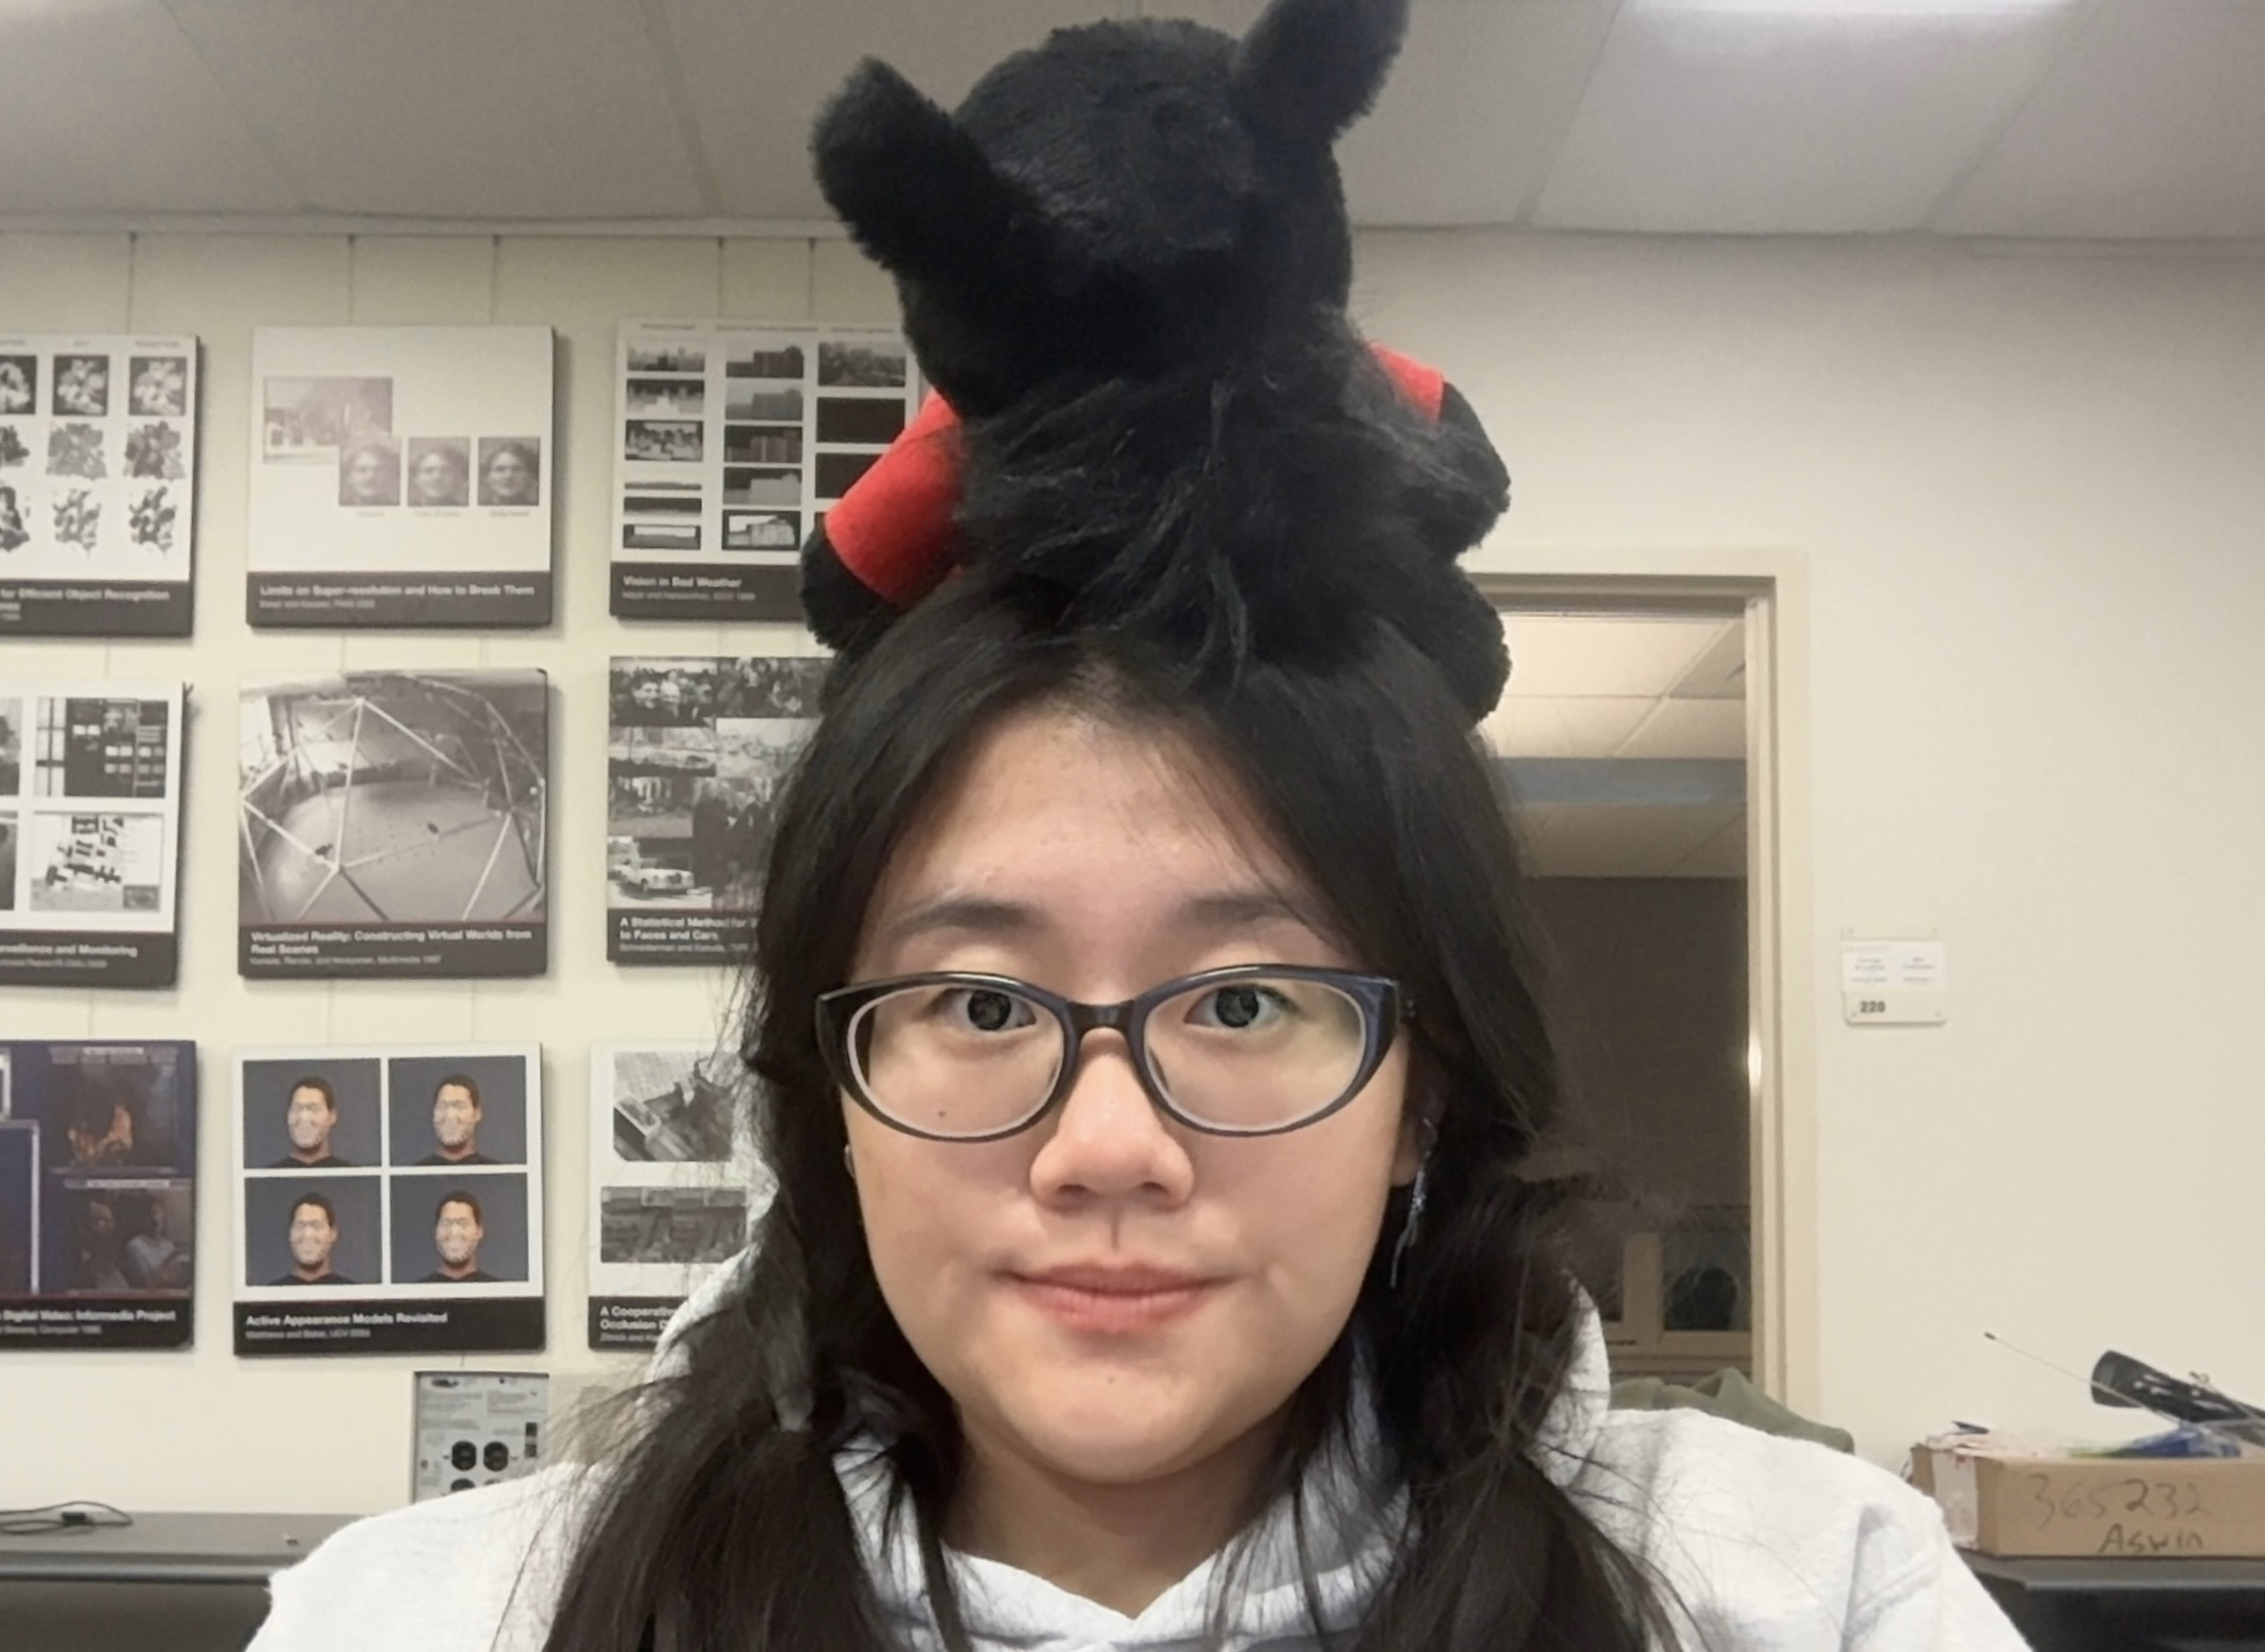
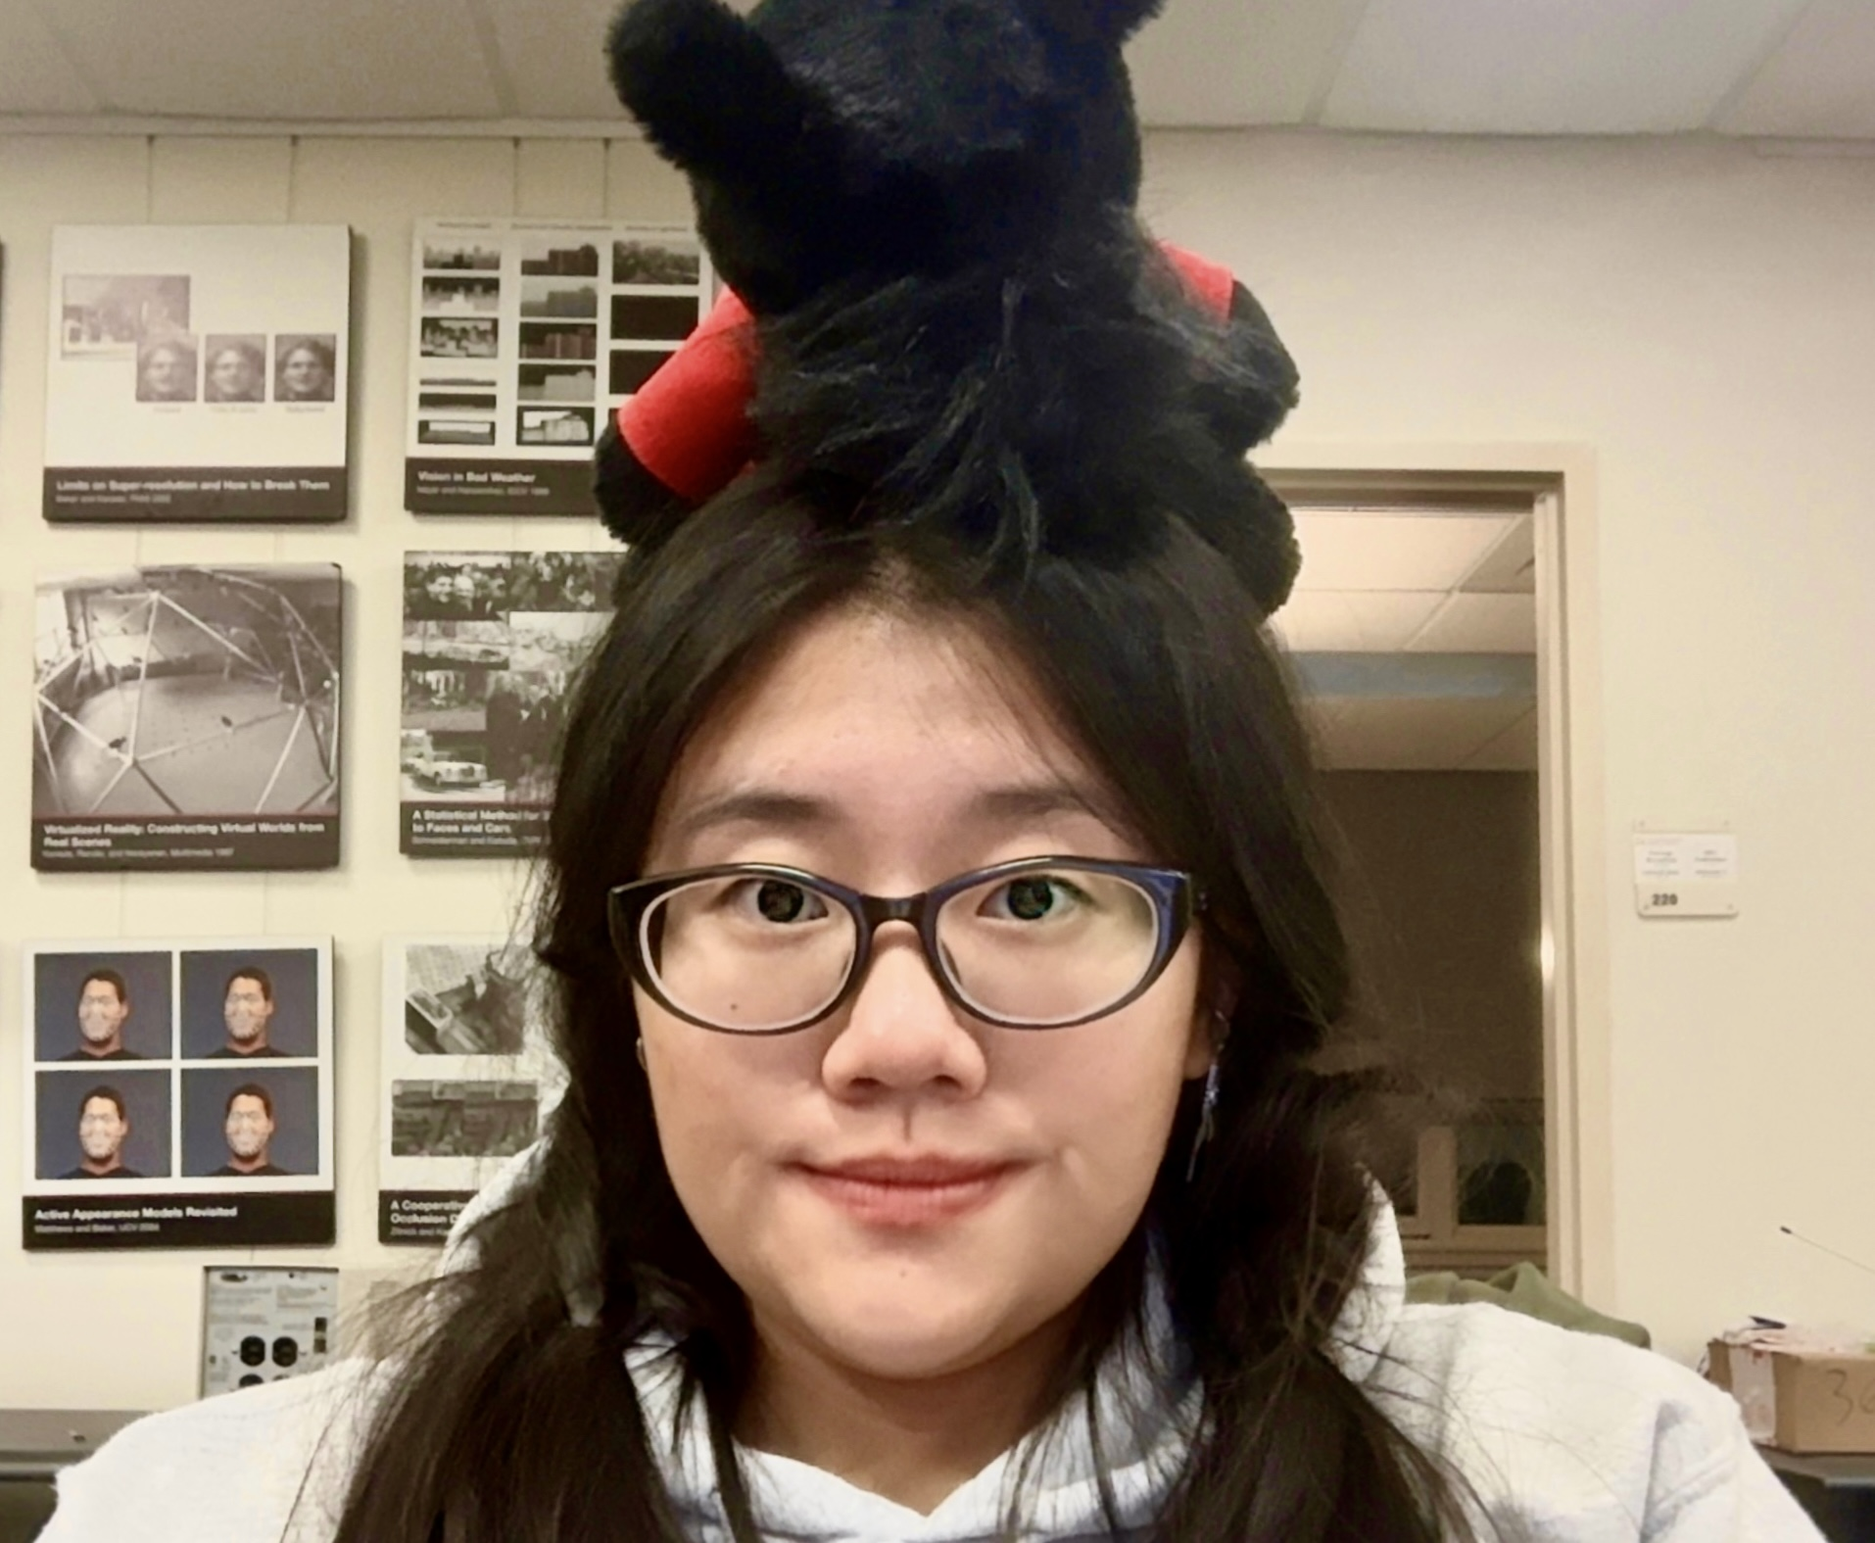
init

diff --git a/index.html b/index.html
@@ -24,12 +24,12 @@
                 </p>
                 <p>
       Hi there 👋 ! I’m a Master’s student in Computer Vision at the <a href="https://www.ri.cmu.edu/">Robotics Institute</a>, <a href="https://www.cmu.edu/">Carnegie Mellon University</a>, advised by <a href="https://www.laszlojeni.com/">Prof. László A. Jeni</a>. 
-      I’m also a member of <a href="https://anysyn3d.github.io/">AnySyn3D</a>, a non-profit research interest group dedicated to advancing 3D vision research, advised by <a href="https://www.xxlong.site/">Prof. Xiaoxiao Long</a>.
+      I’m also a member of <a href="https://anysyn3d.github.io/">AnySyn3D</a>, a non-profit research interest group for 3D vision, advised by <a href="https://www.xxlong.site/">Prof. Xiaoxiao Long</a>.
                 </p>
                 <p style="text-align:center">
                   <a href="mailto:litingw@andrew.cmu.edu">Email</a> &nbsp;/&nbsp;
                   <a href="https://scholar.google.com/citations?user=8UbfFtcAAAAJ">Google Scholar</a> &nbsp;/&nbsp;
-                  <a href="https://www.linkedin.com/in/liting-wen/">Linkedin</a>
+                  <a href="https://www.linkedin.com/in/liting-wen/">Linkedin</a> &nbsp;/&nbsp;
                   <a href="https://github.com/litingww/">Github</a>
                 </p>
               </td>
